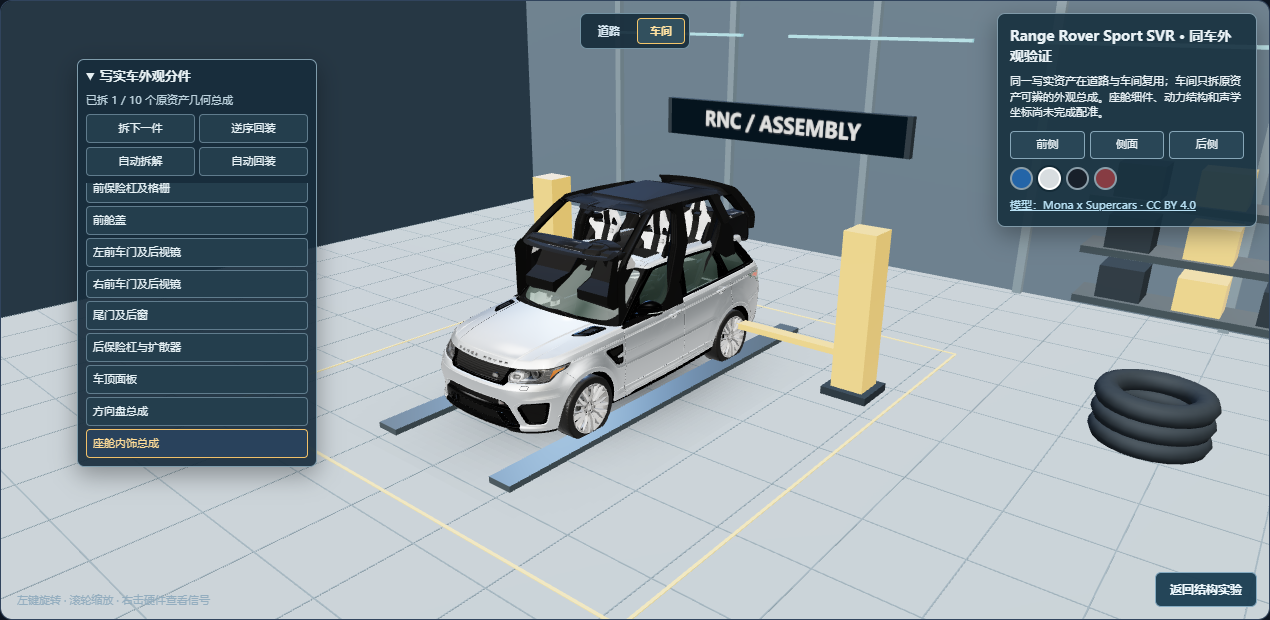
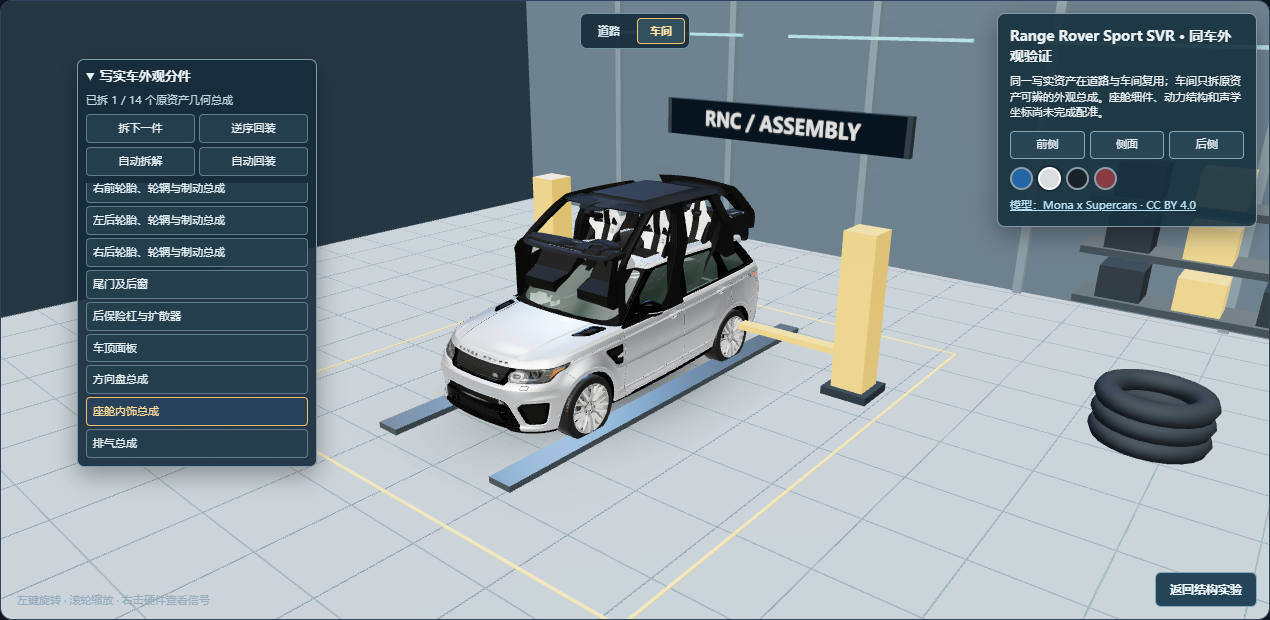
feat(a2): split authored Range Rover wheel assemblies

Changed region(s): [[0.0614, 0.3984, 0.2457, 0.7355], [0.0614, 0.2758, 0.1843, 0.3677]]

diff --git a/src/team-a/viewer/showroom-model.ts b/src/team-a/viewer/showroom-model.ts
@@ -2,6 +2,7 @@ import * as THREE from 'three';
 import { GLTFLoader } from 'three/addons/loaders/GLTFLoader.js';
 import { MeshoptDecoder } from 'three/addons/libs/meshopt_decoder.module.js';
 import type { VehicleKind } from '../../shared/lab-contracts';
+import { splitFourWheelMesh, wheelCorners, type WheelCorner } from './wheel-geometry';
 
 // Offline assets. Their exterior groups are not RNC geometry or physical anchors.
 const assets = {
@@ -55,6 +56,34 @@ export async function loadShowroomModel(vehicle: VehicleKind): Promise<ShowroomM
   exterior.position.set(-center.x * scale, -bounds.min.y * scale, -center.z * scale);
   group.add(exterior);
 
+  const wheelMeshes = new Map<WheelCorner, THREE.Mesh[]>(wheelCorners.map(corner => [corner, []]));
+  const replacedGeometries = new Set<THREE.BufferGeometry>();
+  if (asset.id === 'range-rover') {
+    group.updateMatrixWorld(true);
+    const combinedWheelMeshes: THREE.Mesh[] = [], rimMeshes: THREE.Mesh[] = [];
+    exterior.traverse(object => {
+      const mesh = object as THREE.Mesh;
+      if (!mesh.isMesh) return;
+      const parent = mesh.parent?.name ?? '';
+      if (/car_landrover_rangeroversport_2014_MeshM_(Tire|BrakeDisc|Caliper)_High/.test(parent)) combinedWheelMeshes.push(mesh);
+      else if (/^r?WheelFL6_/.test(parent)) rimMeshes.push(mesh);
+    });
+    if (combinedWheelMeshes.length !== 3 || rimMeshes.length !== 16) throw new Error('Unexpected Range Rover wheel topology');
+    for (const mesh of combinedWheelMeshes) {
+      const result = splitFourWheelMesh(mesh);
+      replacedGeometries.add(result.sourceGeometry);
+      for (const corner of wheelCorners) wheelMeshes.get(corner)!.push(result.pieces[corner]);
+    }
+    group.updateMatrixWorld(true);
+    for (const mesh of rimMeshes) {
+      const bounds = new THREE.Box3().setFromObject(mesh);
+      const point = bounds.getCenter(new THREE.Vector3());
+      const corner = `${point.z > 0 ? 'f' : 'r'}${point.x > 0 ? 'l' : 'r'}` as WheelCorner;
+      wheelMeshes.get(corner)!.push(mesh);
+    }
+    if (wheelCorners.some(corner => wheelMeshes.get(corner)!.length !== 7)) throw new Error('Incomplete Range Rover wheel corner');
+  }
+
   // This source has material-split meshes. Regroup only visibly distinct
   // authored assemblies; a mesh/material count must never become a part count.
   const partSpecs = asset.id === 'range-rover' ? [
@@ -62,6 +91,10 @@ export async function loadShowroomModel(vehicle: VehicleKind): Promise<ShowroomM
     { id: 'hood', name: '前舱盖', labels: ['Hood6'], offset: [0, 0.85, 0.30] },
     { id: 'door-left', name: '左前车门及后视镜', labels: ['DoorL6', 'DoorL', 'MirrorBaseL6', 'MirrorL6'], offset: [0.86, 0.28, 0] },
     { id: 'door-right', name: '右前车门及后视镜', labels: ['DoorR6', 'DoorR', 'MirrorBaseR6', 'MirrorR6'], offset: [-0.86, 0.28, 0] },
+    { id: 'wheel-fl', name: '左前轮胎、轮辋与制动总成', labels: [], offset: [0.72, 0.12, 0.12] },
+    { id: 'wheel-fr', name: '右前轮胎、轮辋与制动总成', labels: [], offset: [-0.72, 0.12, 0.12] },
+    { id: 'wheel-rl', name: '左后轮胎、轮辋与制动总成', labels: [], offset: [0.72, 0.12, -0.12] },
+    { id: 'wheel-rr', name: '右后轮胎、轮辋与制动总成', labels: [], offset: [-0.72, 0.12, -0.12] },
     { id: 'tailgate', name: '尾门及后窗', labels: ['Boot6', 'Boot', 'Spoiler6'], offset: [0, 0.65, -0.55] },
     { id: 'rear-bumper', name: '后保险杠与扩散器', labels: ['BumperR6', 'BumperChassisR6', 'Diffuser6'], offset: [0, 0.14, -0.85] },
     { id: 'roof', name: '车顶面板', labels: ['Roof6'], offset: [0, 0.85, 0] },
@@ -83,7 +116,7 @@ export async function loadShowroomModel(vehicle: VehicleKind): Promise<ShowroomM
   const partPivots = new Map<string, { pivot: THREE.Group; origin: THREE.Vector3; offset: THREE.Vector3 }>();
   group.updateMatrixWorld(true);
   for (const spec of partSpecs) {
-    const meshes = spec.labels.flatMap(label => semanticMeshes.get(label) ?? []);
+    const meshes = [...spec.labels.flatMap(label => semanticMeshes.get(label) ?? []), ...(spec.id.startsWith('wheel-') ? wheelMeshes.get(spec.id.slice(6) as WheelCorner) ?? [] : [])];
     if (meshes.length === 0) throw new Error(`Missing authored assembly ${spec.id}`);
     const partBounds = new THREE.Box3();
     for (const mesh of meshes) partBounds.expandByObject(mesh);
@@ -117,6 +150,7 @@ export async function loadShowroomModel(vehicle: VehicleKind): Promise<ShowroomM
       for (const value of Object.values(material)) if (value instanceof THREE.Texture) textures.add(value);
     }
   });
+  for (const geometry of replacedGeometries) geometries.add(geometry);
   return {
     assetId: asset.id,
     title: asset.title,

diff --git a/docs/evidence/A2/A2-FULL-016/qa-real-parts.playwright-cli.js b/docs/evidence/A2/A2-FULL-016/qa-real-parts.playwright-cli.js
@@ -33,14 +33,19 @@ async (page) => {
   await page.locator('#lab-viewer').screenshot({ path: 'docs/evidence/A2/A2-FULL-016/real-workshop-interior.png' });
   await page.locator('#lab-reset').click();
   const afterReset = await panel.locator('p').innerText();
+  for (const corner of ['fl', 'fr', 'rl', 'rr']) await panel.locator(`[data-part="wheel-${corner}"]`).click();
+  await page.waitForTimeout(850);
+  const afterFourWheels = await panel.locator('p').innerText();
+  await page.locator('#lab-viewer').screenshot({ path: 'docs/evidence/A2/A2-FULL-016/real-workshop-four-wheels.png' });
+  await page.locator('#lab-reset').click();
   const meshAudit = await page.evaluate(async () => {
     const { loadShowroomModel } = await import('/src/team-a/viewer/showroom-model.ts');
     const model = await loadShowroomModel('ice');
-    let meshes = 0;
+    let meshes = 0, triangles = 0;
     const geometries = new Set(), materials = new Set();
     model.group.traverse(object => {
       if (!object.isMesh) return;
-      meshes++; geometries.add(object.geometry);
+      meshes++; triangles += (object.geometry.index?.count ?? object.geometry.attributes.position.count) / 3; geometries.add(object.geometry);
       for (const material of Array.isArray(object.material) ? object.material : [object.material]) materials.add(material);
     });
     const rows = model.parts.map(part => {
@@ -55,7 +60,7 @@ async (page) => {
       resource.addEventListener('dispose', () => disposalCounts.set(resource, disposalCounts.get(resource) + 1));
     }
     model.dispose();
-    return { meshes, rows, geometryCount: geometries.size, materialCount: materials.size, resourcesDisposedOnce: [...disposalCounts.values()].every(count => count === 1) };
+    return { meshes, triangles, rows, geometryCount: geometries.size, materialCount: materials.size, resourcesDisposedOnce: [...disposalCounts.values()].every(count => count === 1) };
   });
   await page.setViewportSize({ width: 360, height: 800 });
   await page.locator('#lab-viewer').screenshot({ path: 'docs/evidence/A2/A2-FULL-016/real-workshop-narrow.png' });
@@ -75,8 +80,8 @@ async (page) => {
     await page.getByRole('button', { name: '返回四类动力教学模型和声学实验' }).click();
   }
   const externalResources = await page.evaluate(() => performance.getEntriesByType('resource').filter(resource => !resource.name.startsWith(location.origin)).map(resource => resource.name));
-  if (count !== 10 || !roadStageVisible || !markersHidden || !afterTwo.startsWith('已拆 2') || stateAcrossStages !== afterTwo || !afterOne.startsWith('已拆 1') || !afterAuto.startsWith('已拆 0') || !afterReset.startsWith('已拆 0') || meshAudit.meshes !== 171 || meshAudit.rows.some(row => row.meshCount < 1 || row.displacement < 0.25) || !meshAudit.resourcesDisposedOnce || !narrowClosed || !narrowUsable || fallbackPartsHidden.some(row => !row.hidden) || errors.length || externalResources.length) {
-    throw new Error(JSON.stringify({ count, roadStageVisible, markersHidden, afterTwo, stateAcrossStages, afterOne, afterAuto, afterReset, meshAudit, narrowClosed, narrowUsable, fallbackPartsHidden, errors, externalResources }));
+  if (count !== 14 || !roadStageVisible || !markersHidden || !afterTwo.startsWith('已拆 2') || stateAcrossStages !== afterTwo || !afterOne.startsWith('已拆 1') || !afterAuto.startsWith('已拆 0') || !afterReset.startsWith('已拆 0') || !afterFourWheels.startsWith('已拆 4') || meshAudit.meshes !== 180 || meshAudit.triangles !== 74127 || meshAudit.rows.some(row => row.meshCount < 1 || row.displacement < 0.25 || (row.id.startsWith('wheel-') && row.meshCount !== 7)) || !meshAudit.resourcesDisposedOnce || !narrowClosed || !narrowUsable || fallbackPartsHidden.some(row => !row.hidden) || errors.length || externalResources.length) {
+    throw new Error(JSON.stringify({ count, roadStageVisible, markersHidden, afterTwo, stateAcrossStages, afterOne, afterAuto, afterReset, afterFourWheels, meshAudit, narrowClosed, narrowUsable, fallbackPartsHidden, errors, externalResources }));
   }
-  return { count, roadStageVisible, markersHidden, afterTwo, stateAcrossStages, afterOne, afterAuto, afterReset, meshAudit, narrowClosed, narrowUsable, fallbackPartsHidden, errors, externalResources };
+  return { count, roadStageVisible, markersHidden, afterTwo, stateAcrossStages, afterOne, afterAuto, afterReset, afterFourWheels, meshAudit, narrowClosed, narrowUsable, fallbackPartsHidden, errors, externalResources };
 }

diff --git a/src/team-a/viewer/wheel-geometry.ts b/src/team-a/viewer/wheel-geometry.ts
@@ -1,0 +1,52 @@
+import * as THREE from 'three';
+
+export type WheelCorner = 'fl' | 'fr' | 'rl' | 'rr';
+export const wheelCorners: WheelCorner[] = ['fl', 'fr', 'rl', 'rr'];
+
+/** Split an authored four-corner mesh by its actual triangles, preserving every vertex attribute. */
+export function splitFourWheelMesh(mesh: THREE.Mesh): { pieces: Record<WheelCorner, THREE.Mesh>; sourceGeometry: THREE.BufferGeometry } {
+  const sourceGeometry = mesh.geometry;
+  const indices = sourceGeometry.getIndex();
+  const positions = sourceGeometry.getAttribute('position');
+  if (!indices || !(positions instanceof THREE.BufferAttribute) || indices.count % 3 !== 0) {
+    throw new Error(`Wheel source ${mesh.name} must have indexed triangles`);
+  }
+  const buckets = Object.fromEntries(wheelCorners.map(corner => [corner, [] as number[]])) as Record<WheelCorner, number[]>;
+  mesh.updateWorldMatrix(true, false);
+  const vertices = [new THREE.Vector3(), new THREE.Vector3(), new THREE.Vector3()];
+  const classify = (point: THREE.Vector3): WheelCorner => `${point.z > 0 ? 'f' : 'r'}${point.x > 0 ? 'l' : 'r'}` as WheelCorner;
+  for (let triangle = 0; triangle < indices.count; triangle += 3) {
+    const ids = [indices.getX(triangle), indices.getX(triangle + 1), indices.getX(triangle + 2)];
+    ids.forEach((id, i) => vertices[i].fromBufferAttribute(positions, id).applyMatrix4(mesh.matrixWorld));
+    const corner = classify(vertices[0]);
+    if (vertices.some(vertex => classify(vertex) !== corner)) throw new Error(`Wheel triangle crosses vehicle center: ${mesh.name}`);
+    buckets[corner].push(...ids);
+  }
+  if (wheelCorners.some(corner => buckets[corner].length === 0) || wheelCorners.reduce((count, corner) => count + buckets[corner].length, 0) !== indices.count) {
+    throw new Error(`Wheel quadrants are incomplete: ${mesh.name}`);
+  }
+  const parent = mesh.parent;
+  if (!parent) throw new Error(`Wheel source has no parent: ${mesh.name}`);
+  const pieces = {} as Record<WheelCorner, THREE.Mesh>;
+  for (const corner of wheelCorners) {
+    const geometry = new THREE.BufferGeometry();
+    for (const [name, attribute] of Object.entries(sourceGeometry.attributes)) {
+      if (!(attribute instanceof THREE.BufferAttribute) || !(attribute.array instanceof Float32Array)) {
+        throw new Error(`Unsupported wheel attribute ${name}: ${mesh.name}`);
+      }
+      const values = new Float32Array(buckets[corner].length * attribute.itemSize);
+      buckets[corner].forEach((sourceIndex, vertex) => {
+        for (let component = 0; component < attribute.itemSize; component++) {
+          values[vertex * attribute.itemSize + component] = attribute.array[sourceIndex * attribute.itemSize + component];
+        }
+      });
+      geometry.setAttribute(name, new THREE.Float32BufferAttribute(values, attribute.itemSize, attribute.normalized));
+    }
+    geometry.computeBoundingBox(); geometry.computeBoundingSphere();
+    const piece = mesh.clone(false);
+    piece.name = `${mesh.name}-${corner}`; piece.geometry = geometry;
+    parent.add(piece); pieces[corner] = piece;
+  }
+  parent.remove(mesh);
+  return { pieces, sourceGeometry };
+}

diff --git a/docs/evidence/A2/A2-FULL-016/qa-real-parts-production.playwright-cli.js b/docs/evidence/A2/A2-FULL-016/qa-real-parts-production.playwright-cli.js
@@ -13,11 +13,12 @@ async (page) => {
   const panel=page.locator('.lab-showroom-assembly');
   const partCount=await panel.locator('.lab-assembly-list button').count();
   await panel.locator('[data-part="hood"]').click();
+  await panel.locator('[data-part="wheel-fl"]').click();
   const before=await panel.locator('p').innerText();
   await road.click(); await workshop.click();
   const after=await panel.locator('p').innerText();
   const loaded=await page.evaluate(()=>performance.getEntriesByType('resource').filter(resource=>resource.name.includes('range-rover-sport-svr')&&resource.name.startsWith(location.origin)).length);
   const external=await page.evaluate(()=>performance.getEntriesByType('resource').filter(resource=>!resource.name.startsWith(location.origin)).map(resource=>resource.name));
-  if(partCount!==10||!before.startsWith('已拆 1')||after!==before||loaded!==1||errors.length||external.length)throw new Error(JSON.stringify({partCount,before,after,loaded,errors,external}));
+  if(partCount!==14||!before.startsWith('已拆 2')||after!==before||loaded!==1||errors.length||external.length)throw new Error(JSON.stringify({partCount,before,after,loaded,errors,external}));
   return {partCount,before,after,loaded,errors,external};
 }

diff --git a/开发记录.md b/开发记录.md
@@ -10,14 +10,16 @@
 同车资产结构初筛：[审计脚本及结果](docs/evidence/A2/A2-FULL-016/README.md)显示 Range Rover 171 mesh/512 node，可从父节点名提取37类候选分组，但 mesh 本身全为通用名称，转轴/真实可拆性未验；Model Y 84 mesh/86 node 的 mesh 全为通用名且无语义父节点。两款均不能直接等同参考图的28个可动分组，更不能证明内部动力结构相同。下一步先选一车人工核对可分件与锚点，再让道路/车间/声学切片改用这一套同车几何；HEV/EREV 与目标核显仍待完成。
 同批坐标核验：按现展示比例，Range Rover车顶1.770 m、Model Y仅1.416 m，而全局MIC锚点固定`y=1.65 m`，在Model Y车顶以上0.234 m；[可复现GLB坐标脚本](docs/evidence/A2/A2-FULL-016/audit-spatial-fit.mjs)和计算结果见A2证据。把GLB直接罩在旧教学车上的暂存实验还出现BEV旧格栅/门板穿出车身，故未提交这条叠模代码。正确方向是车型专属几何/物理锚点契约，与B组路径同步；A2单独移动3D标记会破坏声学一致性。需A1/集成协调者定稿共管接口，B组重验路径，A2以相同布局重建同车分件和场景。
 同批可运行切片：A2 viewer 已加入三维道路/车间，原四类教学车共用场景切换；车间可点选部件、逐件/自动拆解、暂停、逆序回装与复位。可动组分别33/33/36/37，拆下座椅/前门后MIC/门扬声器显示引导端点跟随，切场景保持状态。`pnpm check` 69/69测试、类型/边界/生产构建通过；浏览器四车、窄屏及拆装流程通过，脚本与原图见[A2本批证据](docs/evidence/A2/A2-FULL-016/README.md)。这仍是原创低多边形教学车，品牌GLB与内部尚非同车，用户图示的最终质感/精度与车型专属声学锚点未达标；A1/B/shared运行文件未改。
-同批写实车进一步推进：ICE Range Rover GLB 在道路和车间复用同一实例，10个有原网格归属的外观总成可拆解/回装；车轮/后门等混合网格不假称独立零件。171 mesh保留，四种拆装动作与场景往返、窄屏及同源加载的脚本/原图见[A2本批证据](docs/evidence/A2/A2-FULL-016/README.md)。把旧教学内部塞进该车的实渲染显示头枕与仪表台明显穿模，已否决并留失败原图。当前仅写实**外观**同车跨场景，内部、动力、四类车型和声学锚点未统一；写实模式继续隐藏物理标记，避免视觉与B组计算相矛盾。A1/B/shared运行文件未改。
+同批写实车进一步推进：ICE Range Rover GLB 在道路和车间复用同一实例，14个有原资产几何归属的外观/轮端总成可拆解/回装。初步按父节点无法分开的三张合并轮系网格，经逐三角形审计确认四轮互不跨界，现按真实四轮位置拆出轮胎、制动盘、卡钳和轮辋；原171 mesh变为运行时180 mesh，总数74,127三角形不变。后门与独立座椅仍不能可靠分出。拆装、场景往返、窄屏及同源加载脚本/原图见[A2本批证据](docs/evidence/A2/A2-FULL-016/README.md)。把旧教学内部塞进该车的实渲染显示头枕与仪表台明显穿模，已否决并留失败原图。当前仅写实**外观/轮端**同车跨场景，内部、动力、四类车型和声学锚点未统一；写实模式继续隐藏物理标记，避免视觉与B组计算相矛盾。A1/B/shared运行文件未改。
+
+四轮续批验证：`pnpm check` 类型/边界/69项测试/生产构建通过；开发页真实浏览器检查14组非空、四轮分别拆出4/14、道路/车间状态保持、逆序/自动回装、窄屏及三种非ICE车型隐藏写实分件，页面异常与外网请求均0；生产预览复核14组、前舱盖+左前轮跨场景保持2/14、同源GLB仅加载一次。运行时180份几何及30份材质恰好释放一次，74,127三角形未变。证据和限制见[A2-FULL-016](docs/evidence/A2/A2-FULL-016/README.md)。
 
 旧阶段PR #5/#6已合入**原仓库main** `1bb8a23`；完整目标当前整合在 fork/main 和[A1/整合草稿PR #23](https://github.com/KnowCooker/RNC_3D_SIMULATION/pull/23)，A2新独立进度在[草稿PR #24](https://github.com/KnowCooker/RNC_3D_SIMULATION/pull/24)。旧完整目标阶段PR #7～#22已关闭为被当前整合提交包含的历史批次，并非合入原仓库main。#20的源码已在 fork/main 和 #24，旧 PR 已关闭、旧远端分支已删除；fork 只保留 main、A1、A2 当前三分支。[当前分支与备份](docs/coordination/CURRENT_BRANCHES.md)记录接续入口。各批已验证源码SHA仍由其证据报告固定。两端读取[协作入口](docs/coordination/README.md)、[A1](docs/coordination/A1.md)、[A2](docs/coordination/A2.md)，继续按各自目录开发。
 
 | 责任 | 本轮已有实现 | 实际验证 | 下一步 |
 | --- | --- | --- | --- |
 | A1 | 原实验界面/16秒回放、持续仿真与试听；#21暂停态移动场重查；#23有界音频预取质量改进 | #23`pnpm check`67/67；同脚本1.05秒阻塞/首次三维操作0补缓冲，[固定候选1204.22秒长稳](docs/evidence/A1/A1-FULL-008/stability/README.md)15项门槛通过；[当前同机离线候选](docs/evidence/A1/A1-FULL-008/offline/README.md)45/45检查通过 | 真实后台、实物音画、目标设备、第二机断网及正式交付 |
-| A2 | #7四类结构/真实截面；#8–#20分批视觉/结构/声场检视；#24两款写实外观参考、原创教学车道路/车间切片、ICE同资产10个真实外观总成拆装 | 两款资产许可/离线守护；四车33/33/36/37组教学拆装与ICE 10组真实外观回归；`pnpm check` 69/69 | 写实车外观/座舱/内部/声学同车配准、其余三类合规高质资产与真分件、目标核显与全应用同版回归 |
+| A2 | #7四类结构/真实截面；#8–#20分批视觉/结构/声场检视；#24两款写实外观参考、原创教学车道路/车间切片、ICE同资产14个真实外观/轮端总成拆装 | 两款资产许可/离线守护；四车33/33/36/37组教学拆装与ICE 14组真实资产回归；本批 `pnpm check` 结果见下方记录 | 写实车外观/座舱/内部/声学同车配准、其余三类合规高质资产与真分件、目标核显与全应用同版回归 |
 | B | 新持续处理器保留源、路径、FxLMS状态；固定内存历史；原批量与任意点场保留 | B组23项含6项流式数值；首16秒逐样本等同批量，跨块/越环/场前史及失败状态通过 | 更多工况与目标设备验证，配合持续运行质量 |
 | 集成 | Worker持续协议、真实场绝对时间、取消/错误隔离；目录边界保持；INTEGRATION-FULL-021组合 A2 #20 + A1 #21 | `pnpm check` 67/67；同版四车真实场/改制/实时暂停及[组合版1210.65秒长稳](docs/evidence/full-lab/integration-021/stability/README.md)15项门槛通过；首实时run有2次补缓冲 | 试听质量、后续最终版长稳、设备/包/录像，按依赖顺序审查PR |
 

diff --git a/docs/evidence/A2/A2-FULL-016/README.md b/docs/evidence/A2/A2-FULL-016/README.md
@@ -19,11 +19,11 @@
 
 ## 同批续进：同一写实 ICE 外观跨道路与车间
 
-Range Rover 外观资产现在在道路、车间复用**同一个加载实例**。车间仅列出原 GLB 中能按名称与真实网格共同定位的 10 个总成：前/后保险杠、前舱盖、左右前门及后视镜、尾门及后窗、车顶、方向盘、座舱内饰整体、排气整体。GLB 的 171 个 mesh 只是材质切分，并非 171 个零件；车轮橡胶/刹车等网格横跨多个轮位，后侧围网格也不是各后门，故这些暂不标为独立可拆件。10 组均把原始几何移入自身三维变换组，支持单件、顺序自动拆解、暂停、逆序回装及场景切换保留状态。BEV 资产尚无可核实分组；HEV/EREV 仍只是 Range Rover 外观参考，均不展示这 10 组为本车型真实结构。
+Range Rover 外观资产现在在道路、车间复用**同一个加载实例**。车间列出原 GLB 中可核实的 14 个总成：前/后保险杠、前舱盖、左右前门及后视镜、四个独立轮端、尾门及后窗、车顶、方向盘、座舱内饰整体、排气整体。GLB 原始 171 个 mesh 主要按材质切分，不是 171 个零件。轮胎、制动盘、卡钳虽各合为一个 mesh，但逐三角形审计发现四个空间分离的轮位：每轮分别有 360、256、148 个三角形，没有三角形跨越前后/左右中线；16 个轮辋 mesh 也能按真实空间位置各归 4 个。加载器保留原顶点属性，把三张合并网格的三角形按轮位重组，四个轮端各含 7 个原资产来源网格，不复制单轮几何，也不增加三角形。后侧围网格仍不是各后门，座椅也不能从复杂内饰网格可靠分出。14 组支持单件、顺序自动拆解、暂停、逆序回装及场景切换保留状态。BEV 资产尚无可核实分组；HEV/EREV 仍只是 Range Rover 外观参考，均不展示这 14 组为本车型真实结构。
 
-[开发页实测脚本](qa-real-parts.playwright-cli.js)和[结果](real-parts-browser-result.json)检查：源资产 171 mesh 在分组后仍全数存在，171份几何与30份材质均恰好释放一次；10 组各有非空真实子网格，拆装位移为 0.36～0.90 m。道路→车间时同一外观，前舱盖与左前门拆出后状态为2/10，往返道路仍为2/10，手动逆序与自动回装到0/10。写实模式物理标记仍隐藏，页面异常/外网请求0；360px窗口拆装面板收起后可打开，HEV/EREV/BEV不显示这10组。实渲染原图：[道路后视](real-road-ice.png)、[车间合拢](real-workshop-assembled.png)、[前舱盖与车门拆出](real-workshop-two-parts.png)、[内饰整体移出](real-workshop-interior.png)、[窄屏车间](real-workshop-narrow.png)。[生产预览脚本](qa-real-parts-production.playwright-cli.js)重查同源GLB按需加载及跨场景拆件状态。
+[开发页实测脚本](qa-real-parts.playwright-cli.js)和[结果](real-parts-browser-result.json)检查：原资产 171 mesh 在轮系拆分后为 180 个渲染 mesh，仍为 74,127 个三角形；运行中的 180 份几何和 30 份材质均恰好释放一次。14 组各有非空真实子网格，四个轮端各 7 个。道路→车间时同一外观，前舱盖与左前门拆出后状态为2/14，往返道路仍为2/14，手动逆序与自动回装到0/14；四轮分别拆出达4/14并可复位。写实模式物理标记仍隐藏，页面异常/外网请求0；360px窗口拆装面板收起后可打开，HEV/EREV/BEV不显示这14组。实渲染原图：[道路后视](real-road-ice.png)、[车间合拢](real-workshop-assembled.png)、[前舱盖与车门拆出](real-workshop-two-parts.png)、[四轮端拆出](real-workshop-four-wheels.png)、[内饰整体移出](real-workshop-interior.png)、[窄屏车间](real-workshop-narrow.png)。[生产预览脚本](qa-real-parts-production.playwright-cli.js)重查同源GLB按需加载及跨场景拆件状态。
 
-试把现有教学车的外壳/轮系隐藏、内部与声学点放进 Range Rover 时，浏览器[原始配准失败图](rejected-shell-overlay.png)显示教学头枕穿出车顶，教学仪表台压在前舱盖外，MIC不贴头枕；因此**未把两套资产简单叠加进产品**。目前写实资产的 10 组只完成**外观拆装**，不是完整机械/电驱结构；与四类教学模型、RNC物理锚点和算法尚未统一，仍不能按用户三图最终签收。下一步须按写实车尺寸制作并核验座椅/底盘/动力件、轮系和安装位，再由A1/集成协调者与B组同步车型布局契约和数值重验。
+试把现有教学车的外壳/轮系隐藏、内部与声学点放进 Range Rover 时，浏览器[原始配准失败图](rejected-shell-overlay.png)显示教学头枕穿出车顶，教学仪表台压在前舱盖外，MIC不贴头枕；因此**未把两套资产简单叠加进产品**。进一步检查内饰主体发现它由大量小几何岛混合而成，没有可直接验证的独立五座语义分组。当前写实资产的 14 组仍只覆盖**可核实的外观、轮端与整体内饰**，不是完整机械/电驱结构；与四类教学模型、RNC物理锚点和算法尚未统一，仍不能按用户三图最终签收。下一步须按写实车尺寸制作并核验座椅/底盘/动力件及安装位，再由A1/集成协调者与B组同步车型布局契约和数值重验。
 
 用户要求优先提升车辆的真实质感，并允许直接找现成模型。本批在既有四类教学 SUV 旁增加一个独立外观欣赏模式；**没有**用品牌模型替换教学车的机械/电驱结构或声学坐标。外观模式隐藏物理标记、声场和剖面讲解；返回后原教学模型及交互恢复。更换动力类型也自动返回教学视图，避免把真实品牌外观当成所选动力架构的实车。
 

diff --git a/docs/coordination/A2.md b/docs/coordination/A2.md
@@ -18,7 +18,7 @@
 - 接续定位：当前 A2 唯一分支 `a/a2-full-016-showroom`，草稿 PR #24；准确最新 SHA 以 PR HEAD 为准。允许范围仍为 viewer、A2 测试/证据、本页和根日志；下一步优先核验 HEV/EREV 合规高质模型、四车真实感和指定核显，不能沿用本机 RTX 4070 结果代替目标设备。
 - 同批性能续进：viewer内部缓冲现按CSS面积/DPR限制为≤1280×720等效像素，保留宽高比、标签和拾取；1920×1080完整页实测CSS 1588×618、内部1538×598，模拟2×DPR仍在预算内；窄窗标记与REF FL点选通过。[脚本与原图](../evidence/A2/A2-FULL-016/README.md)随PR保存。只是为指定核显验收做预算准备，**尚未**在指定核显上测≥30fps。HEV/EREV候选中RAV4 Hybrid/Li Auto L7的高细节版本是非商业许可，未纳入包；其他转载文件的原始授权链未核实，不直接采用。
 - 同批场景/拆装续进：viewer 私有场景现有三维海岸道路与车间，同一原创教学车在两处切换；车间可手动/自动逐件拆装、暂停和逆序回装，四车型组数33/33/36/37，标记显示随安装件移动。本机 Chromium 四车型场景、拆装/复位、360px窄屏及原写实外观入口已复核，[脚本与原图](../evidence/A2/A2-FULL-016/README.md)见证据。它仍未把品牌 GLB 与教学结构合为同车；A1/B/shared接口未改，车型专属几何与声学锚点须与集成协调者/B组定稿后再接入。
-- 同批写实资产续进：ICE Range Rover 的**同一 GLB**已在三维道路/车间复用，车间对原网格中可辨的前舱盖、左右前门、尾门等10个外观总成做可逆拆装；171 mesh 数量不变。车轮橡胶/制动、后门及独立座椅不能从该文件诚实分出，因此不在写实清单中。叠放旧教学内部失败图显示头枕/仪表台穿模，未提交叠模方案。[原图、分件回归及局限](../evidence/A2/A2-FULL-016/README.md)可接续。后续仍须重建同车内部与专属声学物理坐标，当前写实模式不显示物理标记；HEV/EREV与BEV未有同等级真分件。
+- 同批写实资产续进：ICE Range Rover 的**同一 GLB**已在三维道路/车间复用，车间对原网格中可辨的前舱盖、左右前门、尾门、四个独立轮端等14个总成做可逆拆装。原始171 mesh中的三张合并轮系网格按实际三角形拆分，运行时为180 mesh，74,127三角形不变；每轮端另含原轮辋四张网格。后门及独立座椅仍不能可靠分出，叠放旧教学内部失败图显示头枕/仪表台穿模，未提交叠模方案。[原图、分件回归及局限](../evidence/A2/A2-FULL-016/README.md)可接续。后续仍须重建同车内部与专属声学物理坐标，当前写实模式不显示物理标记；HEV/EREV与BEV未有同等级真分件。
 
 ### A2-FULL-015 四车型共用侧围、门槛与轮眉连续性
 

diff --git a/docs/coordination/A2_UNIFIED_3D_SCENE.md b/docs/coordination/A2_UNIFIED_3D_SCENE.md
@@ -24,6 +24,6 @@
 5. 保存四车的道路、车间合拢、逐件拆解、回装及声学视图的同版本原图/录像；固定机位与用户三图作人工质量对照，再测目标核显与完整页稳定性。当前独立 showroom 截图不能充当该证据。
 
 当前进展：第3步已有可运行的三维道路、车间与原创教学车的逐件/自动拆装切片，四车型可动组 33/33/36/37，场景切换保持状态；[运行证据](../evidence/A2/A2-FULL-016/README.md)有脚本及原图。它验证场景和操作流，但**第1、2步的同车高质资产与锚点尚未通过**，故不将该切片判作同车终点，也不解除第4、5步的协调和验收。
-同批写实纵向切片：ICE Range Rover 外观已复用同一 GLB 实例于道路和车间，车间仅用原资产真实网格组成 10 个可拆总成；其车轮与后门不可诚实拆分，座舱细件、动力件和RNC点位也尚未配准。两套独立切片尚需收束为**一套同车外壳、内部和物理布局**；不能用任何一套单独的通过结果替代终点。
+同批写实纵向切片：ICE Range Rover 外观已复用同一 GLB 实例于道路和车间，车间用原资产真实网格组成 14 个可拆总成。四轮的轮胎、制动盘、卡钳已按各自原始三角形和轮辋真实位置拆成四个独立轮端，整车三角形数不变；后门、独立座椅、动力件和RNC点位尚未配准。两套独立切片尚需收束为**一套同车外壳、内部和物理布局**；不能用任何一套单独的通过结果替代终点。
 
 跨组接口需求（待 A1/集成协调者与B组定稿）：`sceneMode = road | workshop | acoustic`、当前车型与部件拆装状态、选中部件、自动演示进度；以及每车型轮端/参考/门扬声器/头枕MIC的规范几何与物理锚点。A2按真实资产导出布局，B组用同一布局计算传播路径和误差信号，集成协调者负责版本化契约；展示变换不得写回物理坐标。现有 `LabConfig`、`FieldFrame` 和 viewer 回调在此阶段不擅自改动。
